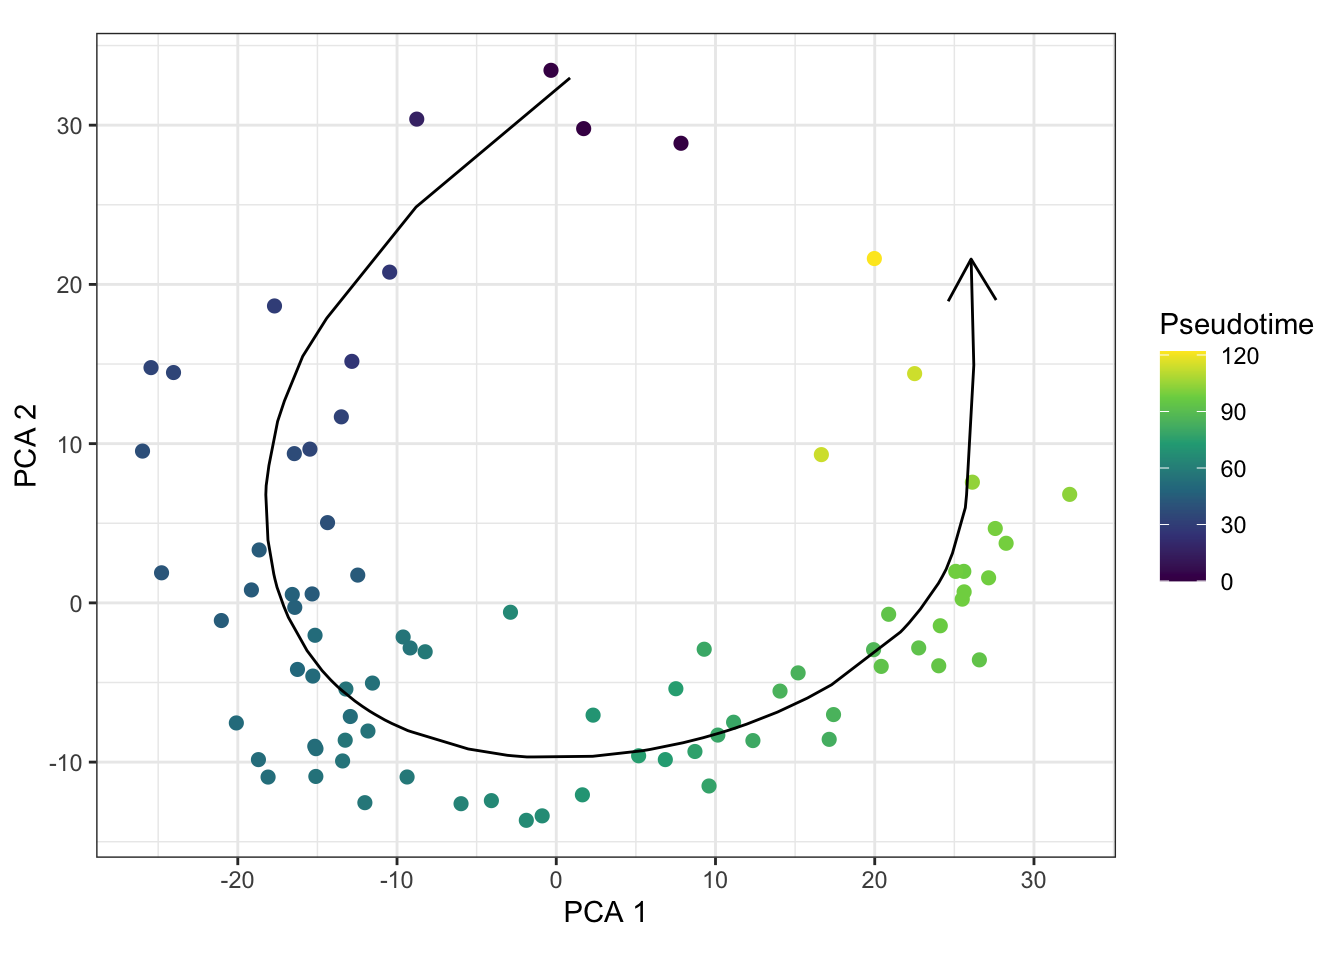
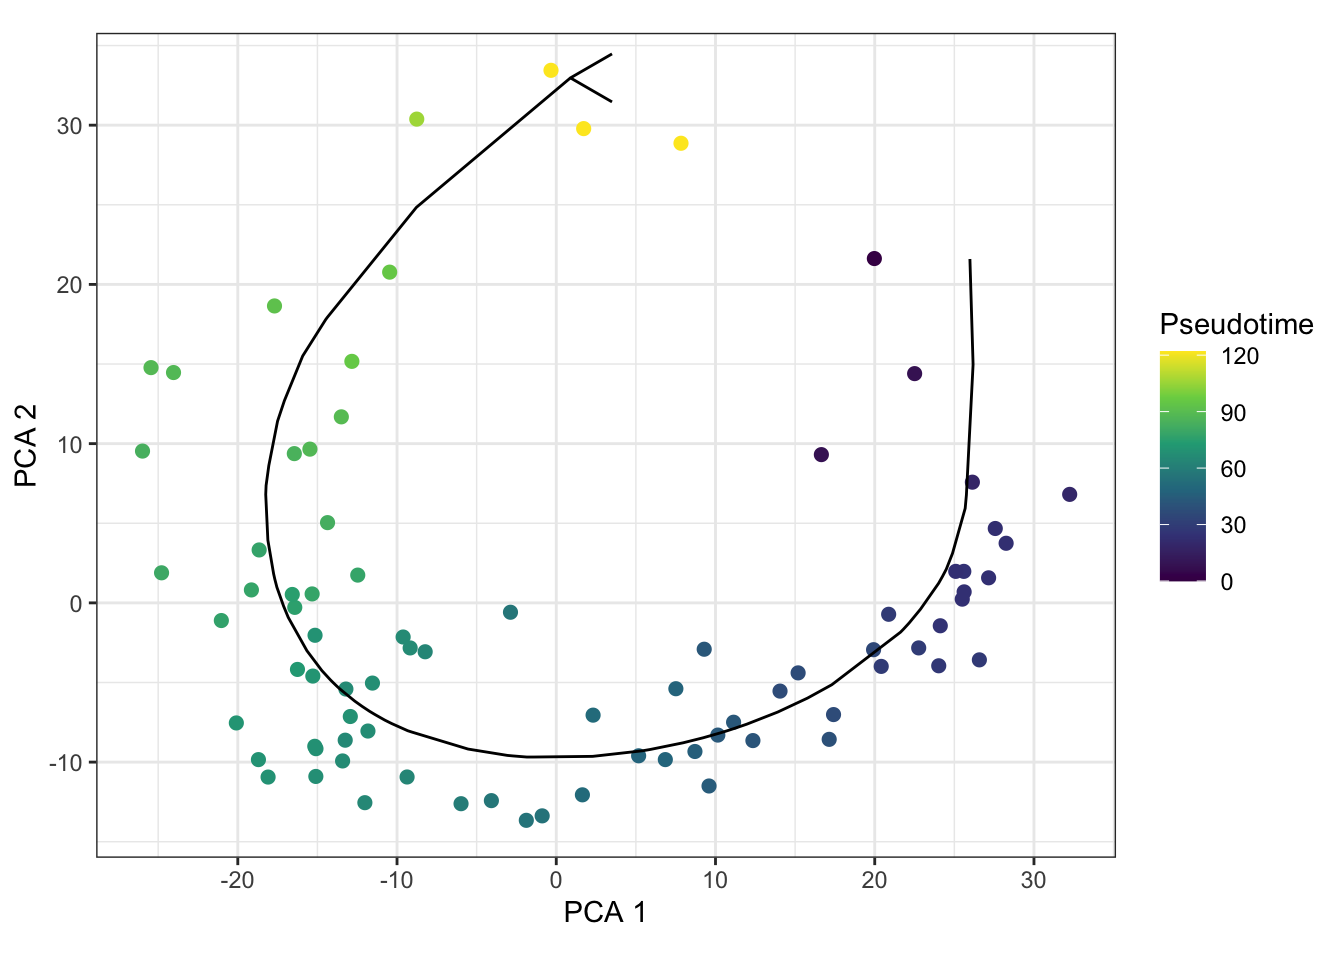
Build

diff --git a/docs/secondary-analysis.html b/docs/secondary-analysis.html
@@ -588,16 +588,16 @@ This reproducible <a href="http://rmarkdown.rstudio.com">R Markdown</a> analysis
 <div class="panel panel-default">
 <div class="panel-heading">
 <p class="panel-title">
-<a data-toggle="collapse" data-parent="#workflowr-checks" href="#strongRepositoryversionstrongahrefhttpsgithubcomjma1991LPMPEHFBtreea872102f66c0e4b6884885589115ab45c79b7750targetblanka872102a"> <span class="glyphicon glyphicon-ok text-success" aria-hidden="true"></span> <strong>Repository version:</strong> <a href="https://github.com/jma1991/LPMP_EHF_B/tree/a872102f66c0e4b6884885589115ab45c79b7750" target="_blank">a872102</a> </a>
+<a data-toggle="collapse" data-parent="#workflowr-checks" href="#strongRepositoryversionstrongahrefhttpsgithubcomjma1991LPMPEHFBtreeac247e6bc3c14cab5c40127adcb7789fc673e449targetblankac247e6a"> <span class="glyphicon glyphicon-ok text-success" aria-hidden="true"></span> <strong>Repository version:</strong> <a href="https://github.com/jma1991/LPMP_EHF_B/tree/ac247e6bc3c14cab5c40127adcb7789fc673e449" target="_blank">ac247e6</a> </a>
 </p>
 </div>
[2 lines of base64/hex data omitted]
 <div class="panel-body">
 <p>
 Great! You are using Git for version control. Tracking code development and connecting the code version to the results is critical for reproducibility.
 </p>
 <p>
-The results in this page were generated with repository version <a href="https://github.com/jma1991/LPMP_EHF_B/tree/a872102f66c0e4b6884885589115ab45c79b7750" target="_blank">a872102</a>. See the <em>Past versions</em> tab to see a history of the changes made to the R Markdown and HTML files.
+The results in this page were generated with repository version <a href="https://github.com/jma1991/LPMP_EHF_B/tree/ac247e6bc3c14cab5c40127adcb7789fc673e449" target="_blank">ac247e6</a>. See the <em>Past versions</em> tab to see a history of the changes made to the R Markdown and HTML files.
 </p>
 <p>
 Note that you need to be careful to ensure that all relevant files for the analysis have been committed to Git prior to generating the results (you can use <code>wflow_publish</code> or <code>wflow_git_commit</code>). workflowr only checks the R Markdown file, but you know if there are other scripts or data files that it depends on. Below is the status of the Git repository when the results were generated:
@@ -667,6 +667,40 @@ Message
 </tr>
 </thead>
 <tbody>
+<tr>
+<td>
+Rmd
+</td>
+<td>
+<a href="https://github.com/jma1991/LPMP_EHF_B/blob/ac247e6bc3c14cab5c40127adcb7789fc673e449/analysis/secondary-analysis.Rmd" target="_blank">ac247e6</a>
+</td>
+<td>
+James Ashmore
+</td>
+<td>
+2021-03-30
+</td>
+<td>
+Build
+</td>
+</tr>
+<tr>
+<td>
+html
+</td>
+<td>
+<a href="https://rawcdn.githack.com/jma1991/LPMP_EHF_B/325a85bd0ff13ea96e0eb9f4f4f907fb2a52afc4/docs/secondary-analysis.html" target="_blank">325a85b</a>
+</td>
+<td>
+James Ashmore
+</td>
+<td>
+2021-03-30
+</td>
+<td>
+Build
+</td>
+</tr>
 <tr>
 <td>
 Rmd
@@ -2286,7 +2320,7 @@ James Ashmore
 <p>Perform lineage inference with Slingshot:</p>
 <pre class="r"><code>set.seed(0111101000)
 
-sce &lt;- slingshot(sce, clusterLabels = colLabels(sce), reducedDim = &quot;PCA&quot;)</code></pre>
+sce &lt;- slingshot(sce, clusterLabels = colLabels(sce), reducedDim = &quot;PCA&quot;, start.clus = 1)</code></pre>
 <p>Create a per-cell data.frame:</p>
 <pre class="r"><code>dat &lt;- makePerCellDF(sce)</code></pre>
 <div id="curve-1" class="section level3 tabset">

diff --git a/docs/index.html b/docs/index.html
@@ -441,16 +441,16 @@ This reproducible <a href="http://rmarkdown.rstudio.com">R Markdown</a> analysis
 <div class="panel panel-default">
 <div class="panel-heading">
 <p class="panel-title">
-<a data-toggle="collapse" data-parent="#workflowr-checks" href="#strongRepositoryversionstrongahrefhttpsgithubcomjma1991LPMPEHFBtreea872102f66c0e4b6884885589115ab45c79b7750targetblanka872102a"> <span class="glyphicon glyphicon-ok text-success" aria-hidden="true"></span> <strong>Repository version:</strong> <a href="https://github.com/jma1991/LPMP_EHF_B/tree/a872102f66c0e4b6884885589115ab45c79b7750" target="_blank">a872102</a> </a>
+<a data-toggle="collapse" data-parent="#workflowr-checks" href="#strongRepositoryversionstrongahrefhttpsgithubcomjma1991LPMPEHFBtreeac247e6bc3c14cab5c40127adcb7789fc673e449targetblankac247e6a"> <span class="glyphicon glyphicon-ok text-success" aria-hidden="true"></span> <strong>Repository version:</strong> <a href="https://github.com/jma1991/LPMP_EHF_B/tree/ac247e6bc3c14cab5c40127adcb7789fc673e449" target="_blank">ac247e6</a> </a>
 </p>
 </div>
[2 lines of base64/hex data omitted]
 <div class="panel-body">
 <p>
 Great! You are using Git for version control. Tracking code development and connecting the code version to the results is critical for reproducibility.
 </p>
 <p>
-The results in this page were generated with repository version <a href="https://github.com/jma1991/LPMP_EHF_B/tree/a872102f66c0e4b6884885589115ab45c79b7750" target="_blank">a872102</a>. See the <em>Past versions</em> tab to see a history of the changes made to the R Markdown and HTML files.
+The results in this page were generated with repository version <a href="https://github.com/jma1991/LPMP_EHF_B/tree/ac247e6bc3c14cab5c40127adcb7789fc673e449" target="_blank">ac247e6</a>. See the <em>Past versions</em> tab to see a history of the changes made to the R Markdown and HTML files.
 </p>
 <p>
 Note that you need to be careful to ensure that all relevant files for the analysis have been committed to Git prior to generating the results (you can use <code>wflow_publish</code> or <code>wflow_git_commit</code>). workflowr only checks the R Markdown file, but you know if there are other scripts or data files that it depends on. Below is the status of the Git repository when the results were generated:
@@ -520,6 +520,23 @@ Message
 </tr>
 </thead>
 <tbody>
+<tr>
+<td>
+html
+</td>
+<td>
+<a href="https://rawcdn.githack.com/jma1991/LPMP_EHF_B/325a85bd0ff13ea96e0eb9f4f4f907fb2a52afc4/docs/index.html" target="_blank">325a85b</a>
+</td>
+<td>
+James Ashmore
+</td>
+<td>
+2021-03-30
+</td>
+<td>
+Build
+</td>
+</tr>
 <tr>
 <td>
 html
